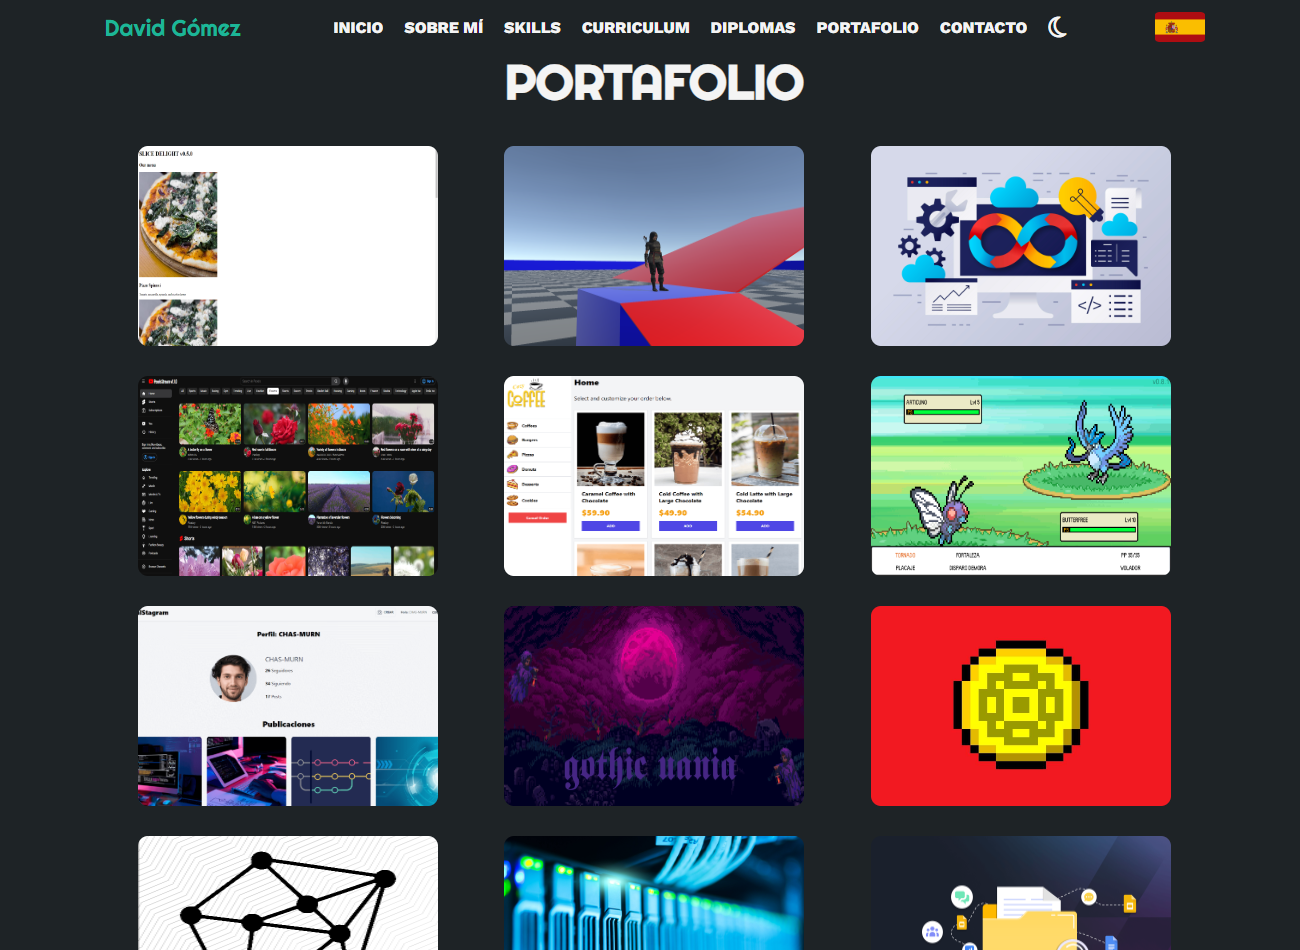
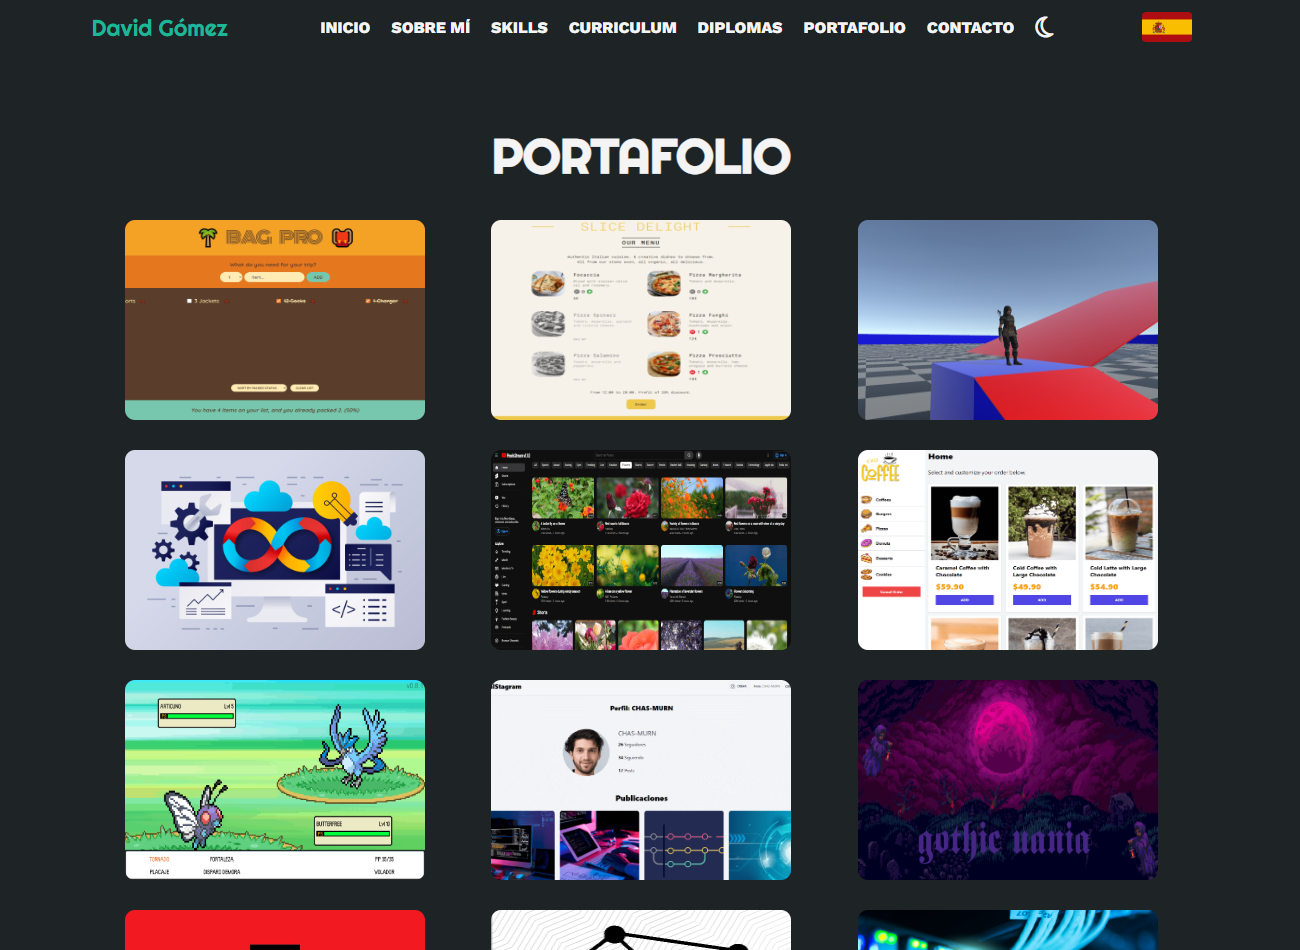
PORTFOLIO 1.8.0
Add Project Bag Pro
Update Project Slice Delight

diff --git a/index.html b/index.html
@@ -610,7 +610,19 @@
         <h2 class="t_portfolio"></h2>
         <div class="galery">
           <div class="project">
-            <a href="https://slice-delight.netlify.app/" target="_blank"
+            <a href="https://bag-pro.netlify.app" target="_blank"
+              ><img
+                id="t-97"
+                src="resources/img/Projects/Project Bag Pro.png"
+              />
+              <div class="overlay">
+                <h3 id="t-98"></h3>
+                <p>React</p>
+              </div>
+            </a>
+          </div>
+          <div class="project">
+            <a href="https://slice-delight.netlify.app" target="_blank"
               ><img
                 id="t-95"
                 src="resources/img/Projects/Project Slice Delight.png"
@@ -650,7 +662,7 @@
             </a>
           </div>
           <div class="project">
-            <a href="https://pexels-stream.netlify.app/" target="_blank"
+            <a href="https://pexels-stream.netlify.app" target="_blank"
               ><img
                 id="t-75"
                 src="resources/img/Projects/Project Pexels Stream.png"

diff --git a/scripts/main.js b/scripts/main.js
@@ -7,7 +7,7 @@ document.addEventListener('DOMContentLoaded', function () {
     const copyrightElement = document.getElementById("copyright");
     const copyrightText = "COPYRIGHT 2024";
     const portfolioVersionElement = document.getElementById("portfolio-version");
-    const portfolioVersionNumber = "v1.7.0"
+    const portfolioVersionNumber = "v1.8.0"
     const portfolioVersionText = "PORTFOLIO " + portfolioVersionNumber;
     const backToTopButton = document.querySelector("#back-to-top-button");
 

diff --git a/scripts/translate/translate-portugues.js b/scripts/translate/translate-portugues.js
@@ -325,4 +325,10 @@ function translate_portugues() {
 
     let t_96 = document.getElementById("t-96");
     t_96.innerHTML = "Slice Delight";
+
+    let t_97 = document.getElementById("t-97");
+    t_97.alt = "Projeto Bag Pro";
+
+    let t_98 = document.getElementById("t-98");
+    t_98.innerHTML = "Bag Pro";
 };

diff --git a/scripts/translate/translate-espanol.js b/scripts/translate/translate-espanol.js
@@ -325,4 +325,10 @@ function translate_espanol() {
 
     let t_96 = document.getElementById("t-96");
     t_96.innerHTML = "Slice Delight";
+
+    let t_97 = document.getElementById("t-97");
+    t_97.alt = "Proyecto Bag Pro";
+
+    let t_98 = document.getElementById("t-98");
+    t_98.innerHTML = "Bag Pro";
 };

diff --git a/scripts/translate/translate-frances.js b/scripts/translate/translate-frances.js
@@ -325,4 +325,10 @@ function translate_frances() {
 
     let t_96 = document.getElementById("t-96");
     t_96.innerHTML = "Slice Delight";
+
+    let t_97 = document.getElementById("t-97");
+    t_97.alt = "Projet Bag Pro";
+
+    let t_98 = document.getElementById("t-98");
+    t_98.innerHTML = "Bag Pro";
 };

diff --git a/scripts/translate/translate-ingles.js b/scripts/translate/translate-ingles.js
@@ -325,4 +325,10 @@ function translate_ingles() {
 
     let t_96 = document.getElementById("t-96");
     t_96.innerHTML = "Slice Delight";
+
+    let t_97 = document.getElementById("t-97");
+    t_97.alt = "Project Bag Pro";
+
+    let t_98 = document.getElementById("t-98");
+    t_98.innerHTML = "Bag Pro";
 };

diff --git a/README.md b/README.md
@@ -10,13 +10,13 @@
 
 - **STACK :**
 
-  - **PORTFOLIO** : `1.7.0`
+  - **Portfolio** : `1.8.0`
 
 ---
 
 - **URLS :**
 
-  - **Web : [Portfolio](https://davidgomeztoca.github.io/portfolio)**
+  - **Website : [Portfolio](https://davidgomeztoca.github.io/portfolio)**
 
 ---
 
